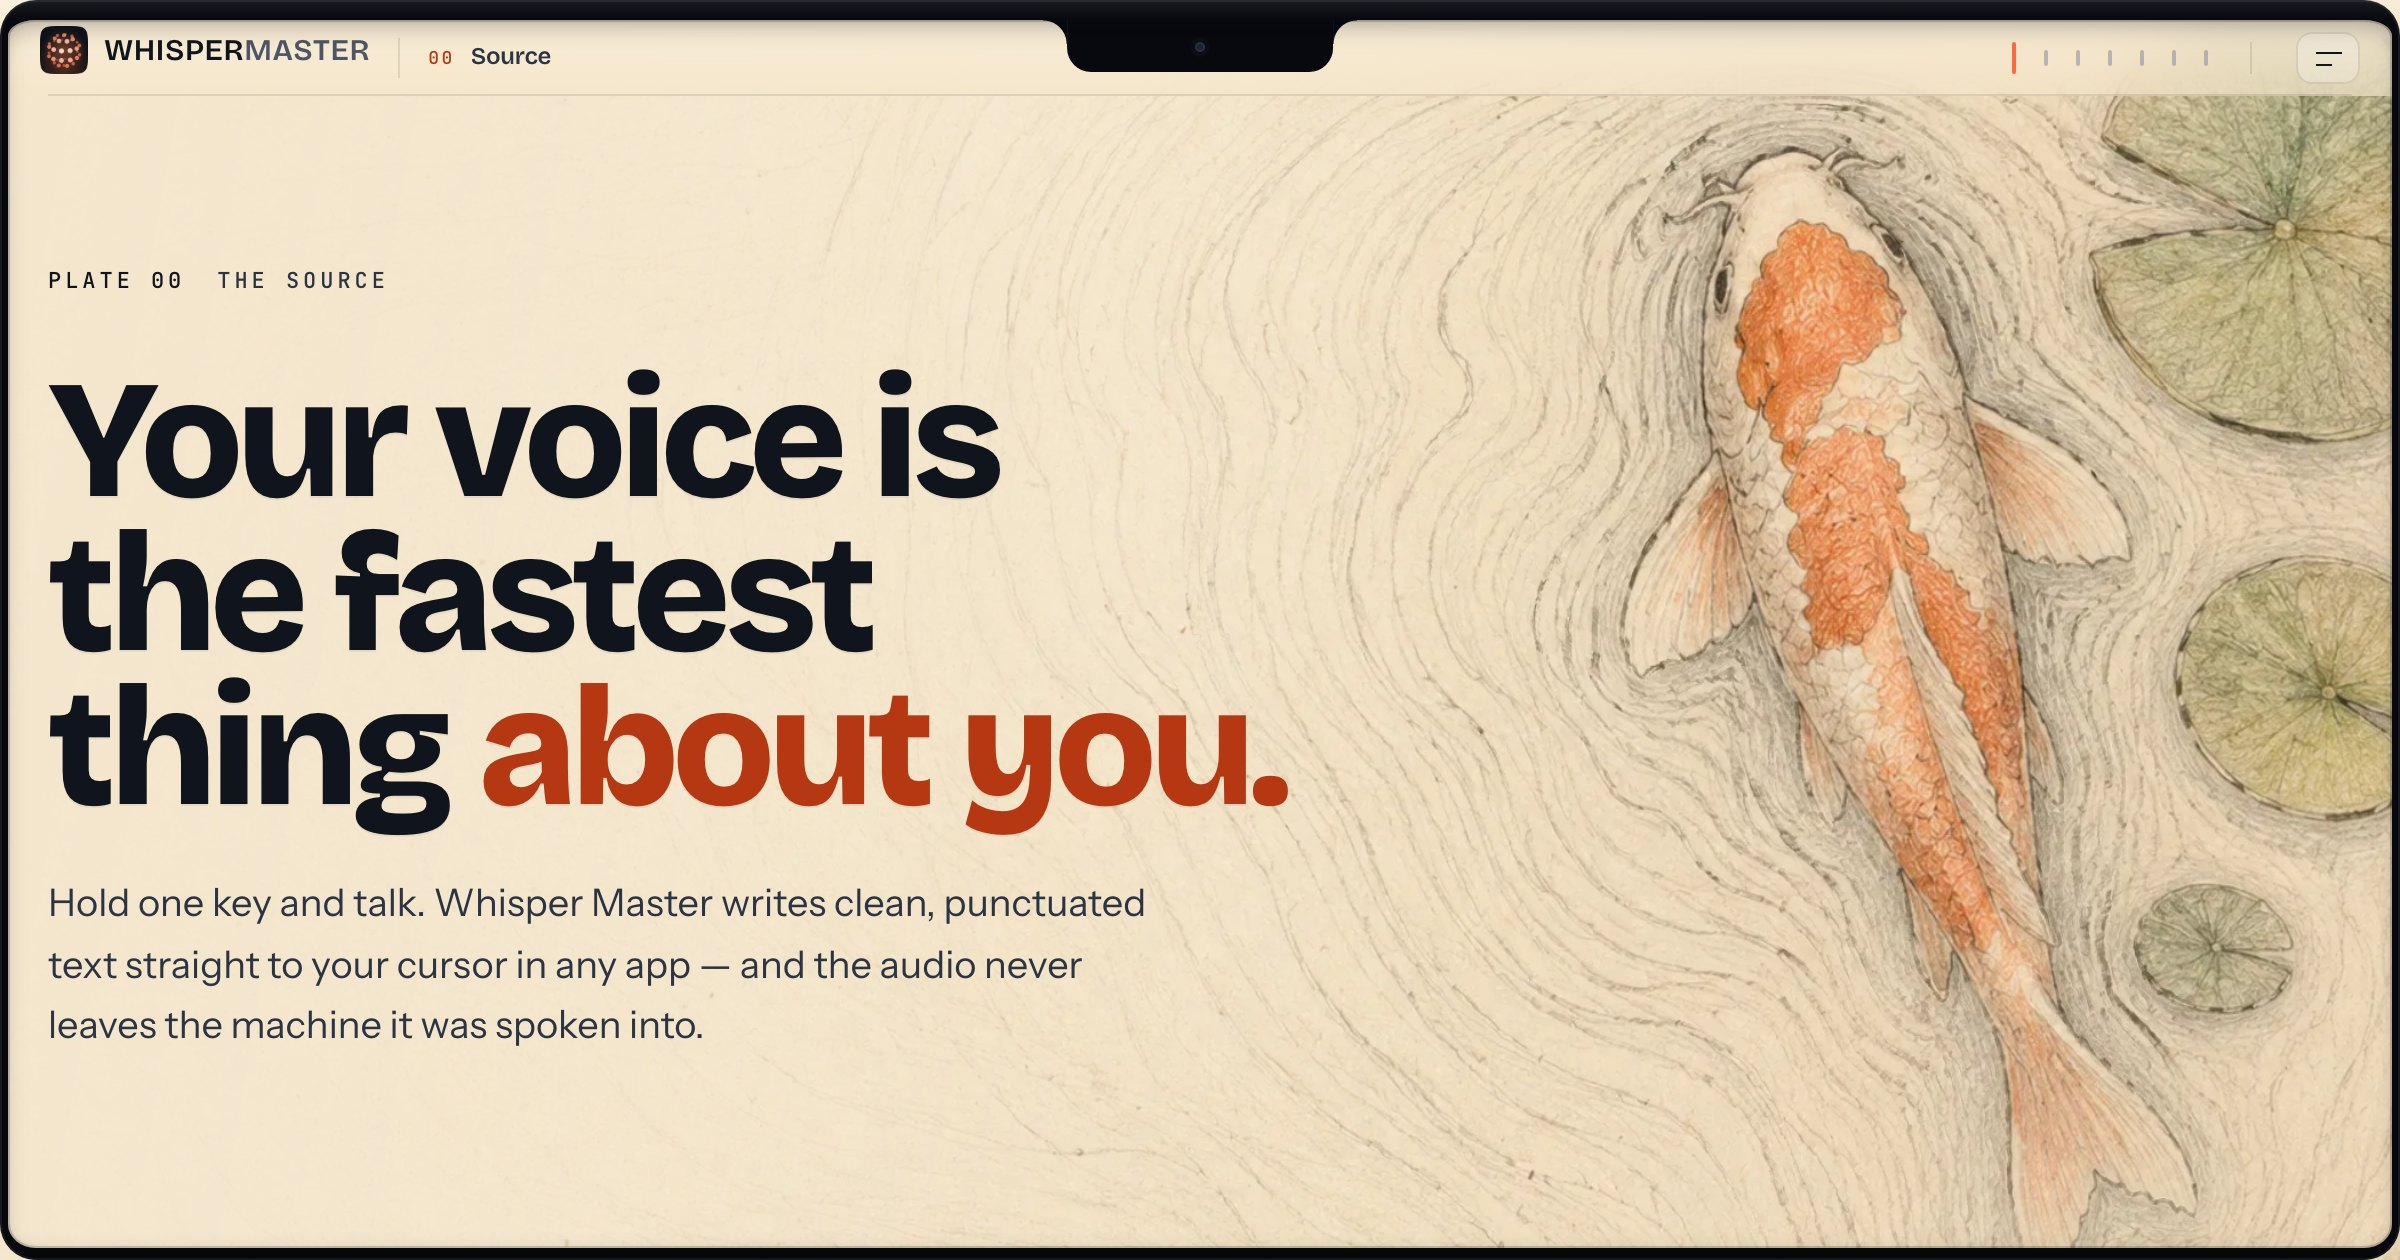
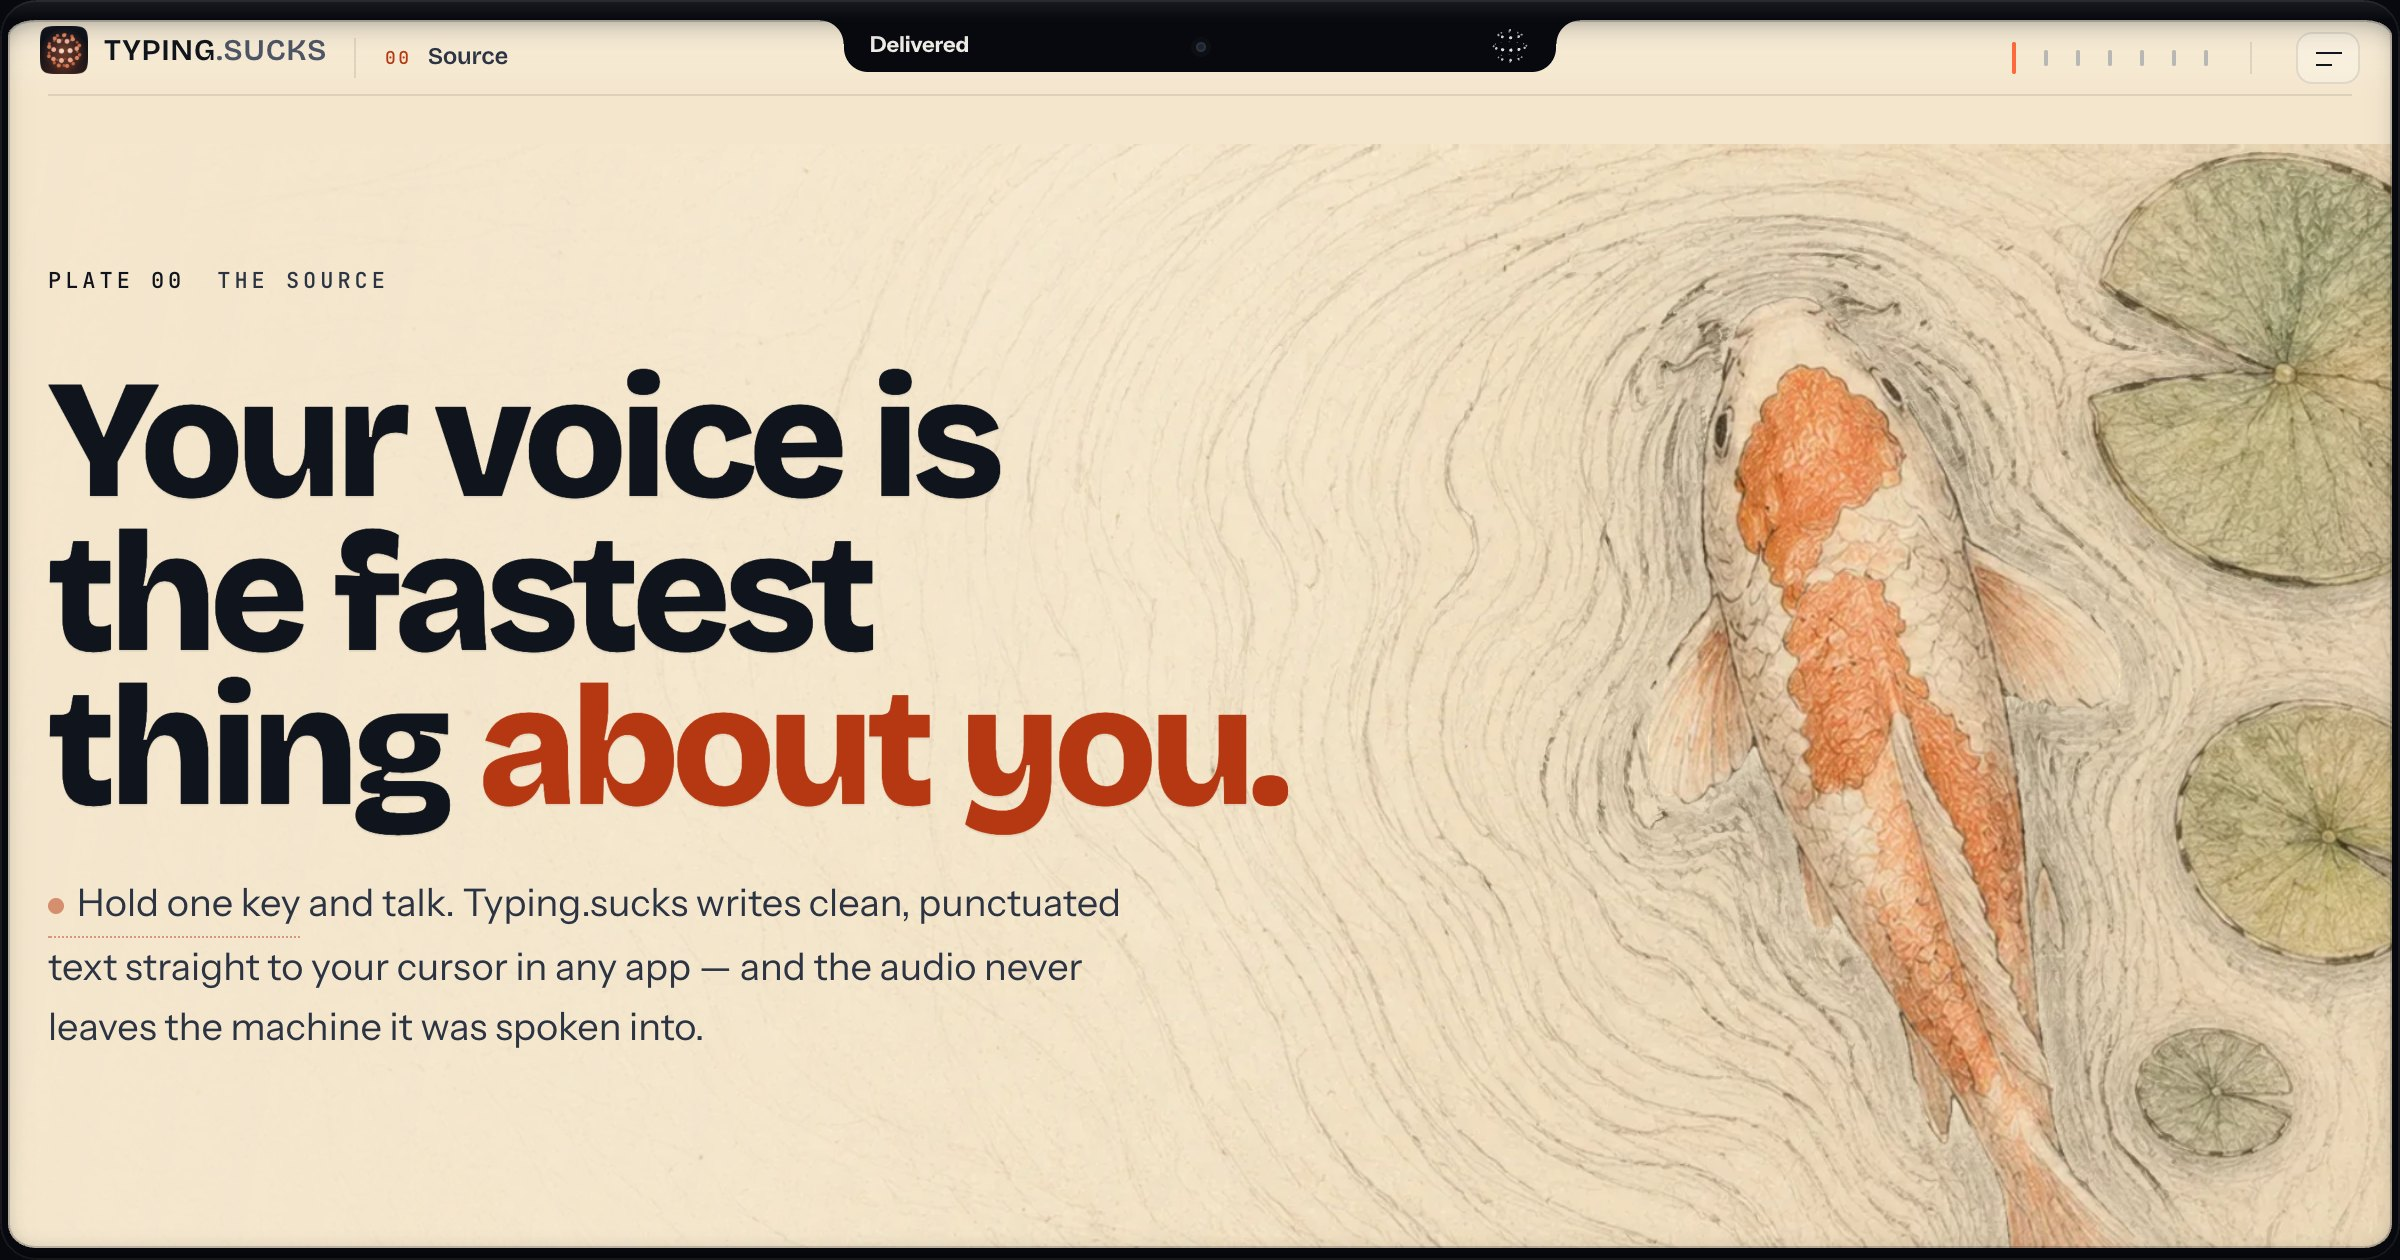
feat(brand): rename the site copy from Whisper Master to Typing.sucks
Owner decision D1 (2026-11-27). Changes the words a visitor reads: product
name, page titles and descriptions, Open Graph and Twitter alt text, the
wordmark, legal trading name, README and SECURITY. The share card is
re-shot from the page so it no longer shows the old name.

Unchanged on purpose: R2 object names in download URLs, the Worker name,
the package name, the referral cookie and localStorage key, the Supabase
project id, the repo name, and the legal meaning of the privacy and terms text.

diff --git a/lib/content.ts b/lib/content.ts
@@ -40,7 +40,7 @@ export const features: Feature[] = [
     id: "anywhere",
     label: "Any app",
     title: "Hold one key, talk anywhere",
-    body: "Text arrives at your cursor in Mail, Slack, Notion, VS Code, Ghostty — anywhere you can type. Whisper Master picks the right paste path per app instead of hoping one works.",
+    body: "Text arrives at your cursor in Mail, Slack, Notion, VS Code, Ghostty — anywhere you can type. Typing.sucks picks the right paste path per app instead of hoping one works.",
     tag: "EVERYWHERE",
     accent: "ember",
   },
@@ -80,7 +80,7 @@ export const features: Feature[] = [
     id: "bluetooth",
     label: "Mic guard",
     title: "It notices bad audio",
-    body: "When Bluetooth earbuds force macOS into the low quality call mode, Whisper Master spots it and offers to switch to the mic in your Mac. It never switches behind your back.",
+    body: "When Bluetooth earbuds force macOS into the low quality call mode, Typing.sucks spots it and offers to switch to the mic in your Mac. It never switches behind your back.",
     tag: "AUDIO",
     accent: "signal",
   },

diff --git a/app/for-teams/page.tsx b/app/for-teams/page.tsx
@@ -47,7 +47,7 @@ export default function ForTeamsPage() {
             Most dictation tools send your audio to a server. For a law firm, a
             clinic or a therapy practice, that single fact ends the evaluation —
             so a lot of professionals simply gave up on dictation and went back
-            to typing. Whisper Master transcribes entirely on the Mac in front of
+            to typing. Typing.sucks transcribes entirely on the Mac in front of
             you. There is no server to send audio to.
           </p>
         </header>
@@ -63,7 +63,7 @@ export default function ForTeamsPage() {
               real and the paperwork is how you manage it.
             </p>
             <p>
-              Whisper Master runs the speech model on your own hardware. The
+              Typing.sucks runs the speech model on your own hardware. The
               audio is processed in memory on the Mac and never written to a
               network socket. There is no retention policy to audit because
               there is nothing to retain — a difference your reviewer can verify

diff --git a/app/globals.css b/app/globals.css
@@ -160,7 +160,7 @@
 
 @layer utilities {
   /* ═══════════════════════════════════════════════════════════════════════
-   WHISPER MASTER — the service manual.
+   TYPING.SUCKS — the service manual.
 
    The conceit: this site is the product's own equipment manual. Warm drafting
    stock, teal drawing ink, plate numbers, leader lines, figures in section.
@@ -6172,7 +6172,7 @@ mark.del {
    picture: the viewport *is* the Mac screen. It has a bezel, thick along the
    top the way the machine's is; it has radiused corners with bezel showing
    outside the curve; and the camera island is centred in the top edge with
-   Whisper Master's band moulded around it, which is exactly where and how the
+   the Typing.sucks band moulded around it, which is exactly where and how the
    band appears when you hold the key.
 
    This is why the black is allowed here and nowhere else on the page. It is

diff --git a/components/waitlist/JoinModal.tsx b/components/waitlist/JoinModal.tsx
@@ -367,7 +367,7 @@ export default function JoinModal({
     // Deliberately not "I just got early access" — the sharer is usually still
     // pending, and a claim they can't back is a bad first impression of the app.
     const text =
-      "I'm on the Whisper Master early-access list — talk, and it types. Join with my link:";
+      "I'm on the Typing.sucks early-access list — talk, and it types. Join with my link:";
     const url =
       network === "x"
         ? `https://twitter.com/intent/tweet?text=${encodeURIComponent(text)}&url=${encodeURIComponent(referralLink)}`
@@ -589,7 +589,7 @@ export default function JoinModal({
                       </select>
                     </Field>
                   </div>
-                  <Field label="What will you use Whisper Master for? (optional)">
+                  <Field label="What will you use Typing.sucks for? (optional)">
                     <textarea
                       rows={2}
                       value={form.useCase}

diff --git a/app/layout.tsx b/app/layout.tsx
@@ -45,12 +45,12 @@ const mono = JetBrains_Mono({
 
 const TITLE = `${product.name} — talk to your Mac, privately`;
 const DESCRIPTION =
-  "Whisper Master turns speech into clean, formatted text in any Mac app — transcribed entirely on your device. No cloud round-trip, no audio uploaded, works offline.";
+  "Typing.sucks turns speech into clean, formatted text in any Mac app — transcribed entirely on your device. No cloud round-trip, no audio uploaded, works offline.";
 
 export const metadata: Metadata = {
   metadataBase: new URL(siteUrl()),
   // No `template` here on purpose: every sub-page already sets a full
-  // "Page — Whisper Master" title, so a template would suffix the brand twice.
+  // "Page — Typing.sucks" title, so a template would suffix the brand twice.
   title: TITLE,
   description: DESCRIPTION,
   applicationName: product.name,

diff --git a/components/chrome/MenuBarNotch.tsx b/components/chrome/MenuBarNotch.tsx
@@ -11,7 +11,7 @@ import { useDictation } from "./DictationContext";
  * sitting in the middle of a page. Here the browser viewport is the display, so
  * the band hangs off the real top edge, dead centre, with the wordmark and the
  * contents index either side of it — which is the arrangement a Mac menu bar
- * has, and the arrangement Whisper Master lives in.
+ * has, and the arrangement Typing.sucks lives in.
  *
  * Two things follow from that, and both are load-bearing:
  *
@@ -64,7 +64,7 @@ export default function MenuBarNotch() {
 
       {/* The band is decorative; this is the part a screen reader gets. */}
       <span className="sr-only" aria-live="polite">
-        {live ? `Whisper Master: ${label}` : ""}
+        {live ? `Typing.sucks: ${label}` : ""}
       </span>
     </div>
   );

diff --git a/lib/config.ts b/lib/config.ts
@@ -1,5 +1,5 @@
 /**
- * Whisper Master — single source of truth for product copy + feature flags.
+ * Typing.sucks — single source of truth for product copy + feature flags.
  * Edit this file to rebrand or retune without touching components.
  */
 
@@ -15,7 +15,7 @@ export const EMAIL_AUTH_ENABLED = true;
 // ─────────────────────────────────────────────────────────────────────────
 
 export const product = {
-  name: "Whisper Master",
+  name: "Typing.sucks",
   tagline: "Voice-to-text that never leaves your device.",
   contactEmail: "corkkam.info@gmail.com",
   // No `waitlistCount` here on purpose. It used to hold a hardcoded "2,400+"

diff --git a/lib/legal.ts b/lib/legal.ts
@@ -1,5 +1,5 @@
 /**
- * Whisper Master — legal + trust source of truth.
+ * Typing.sucks — legal + trust source of truth.
  *
  * Every factual claim on /privacy, /terms and /trust is derived from this file,
  * so the three pages can never drift apart. The data-flow table below was
@@ -19,7 +19,7 @@
 // registered private-limited name if one exists.
 export const entity = {
   /** Trading name shown to users. */
-  tradingName: "Whisper Master",
+  tradingName: "Typing.sucks",
   /** Legal entity that contracts with the user and receives payment. */
   legalEntity: "Corkkam",
   /** Registered place of business. Determines governing law + tax treatment. */

diff --git a/lib/leads/scoring.ts b/lib/leads/scoring.ts
@@ -5,7 +5,7 @@ import type { LeadInput } from "./schema";
  *
  * This is not a generic "MQL score". It encodes one specific commercial thesis:
  *
- *   Whisper Master cannot win a head-on prosumer fight. Superwhisper is cheaper
+ *   Typing.sucks cannot win a head-on prosumer fight. Superwhisper is cheaper
  *   and MacWhisper is a one-time €59, both are already on-device, and neither
  *   has to be discovered — they own the category's search traffic. What none of
  *   them sells is dictation a *compliance officer will approve*: per-seat, with

diff --git a/app/download/page.tsx b/app/download/page.tsx
@@ -12,7 +12,7 @@ import { betaDownloadUrl } from "@/lib/config.server";
 export const metadata: Metadata = {
   title: `Download ${product.name}`,
   description:
-    "Download Whisper Master for macOS — the stable build is free and needs no account. The beta channel opens once you're approved for early access.",
+    "Download Typing.sucks for macOS — the stable build is free and needs no account. The beta channel opens once you're approved for early access.",
 };
 
 // The stable link is public, but the *beta* card still branches on Clerk

diff --git a/app/pricing/page.tsx b/app/pricing/page.tsx
@@ -11,7 +11,7 @@ import { selfServeCheckoutReady } from "@/lib/billing/checkout";
 export const metadata: Metadata = {
   title: `Pricing — ${product.name}`,
   description:
-    "Whisper Master is free while in beta. Here is exactly what it will cost when it isn't, in USD and INR — published up front so nobody is surprised later.",
+    "Typing.sucks is free while in beta. Here is exactly what it will cost when it isn't, in USD and INR — published up front so nobody is surprised later.",
   alternates: { canonical: "/pricing" },
 };
 

diff --git a/app/privacy/page.tsx b/app/privacy/page.tsx
@@ -8,7 +8,7 @@ import { flows, neverLeaves, entity, LEGAL_UPDATED } from "@/lib/legal";
 export const metadata: Metadata = {
   title: `Privacy Policy — ${product.name}`,
   description:
-    "How Whisper Master handles your data. Transcription happens on your Mac; your audio is never uploaded. This policy lists every exception.",
+    "How Typing.sucks handles your data. Transcription happens on your Mac; your audio is never uploaded. This policy lists every exception.",
   alternates: { canonical: "/privacy" },
 };
 
